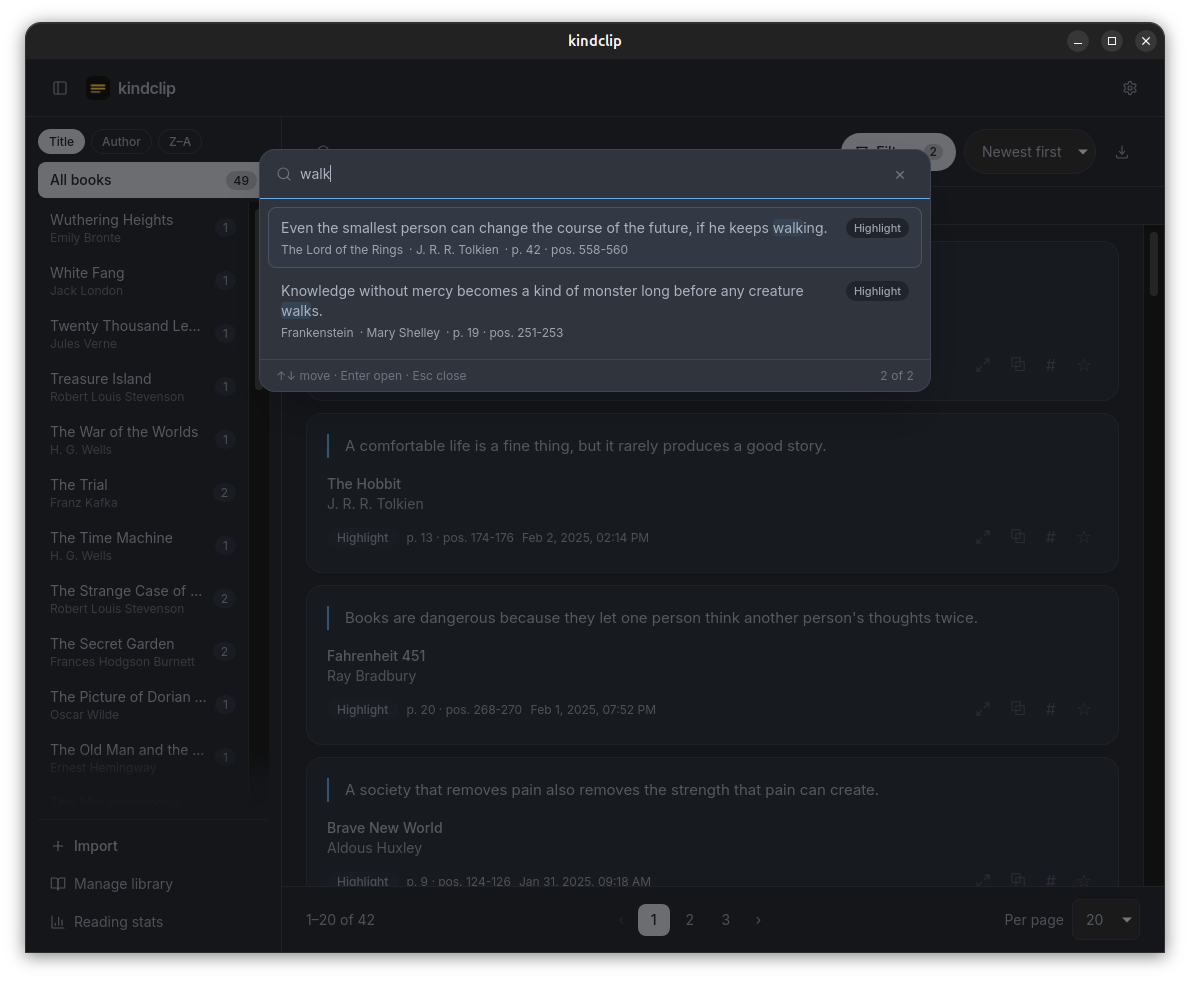
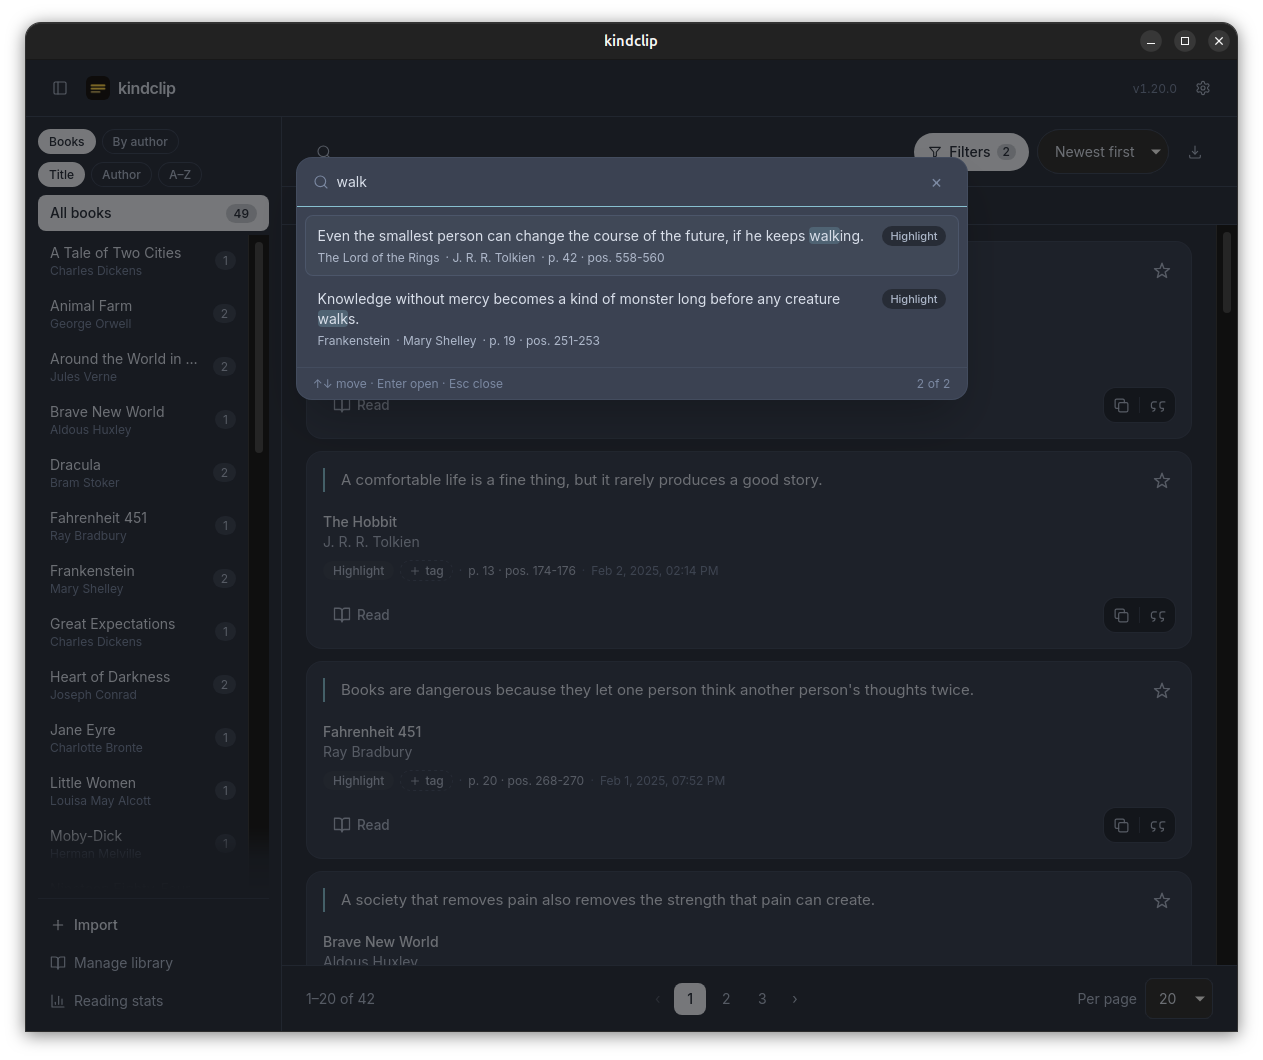
docs: refresh screenshots for the card redesign
Regenerated screen_1 and screen_2 with the new action bar and updated the intrinsic size of both images on the landing page (1263x1060).

diff --git a/docs/index.html b/docs/index.html
@@ -1449,8 +1449,8 @@
           <figure class="hero-shot">
             <img
               src="screen_1.png"
-              width="1190"
-              height="981"
+              width="1263"
+              height="1060"
               alt="kindclip library view in the Atom One Dark palette: a book sidebar with clipping counts, removable filter chips, and clipping cards showing quotes, titles, pages and dates."
             />
             <figcaption>
@@ -1772,8 +1772,8 @@
           <figure class="shot-card">
             <img
               src="screen_2.png"
-              width="1190"
-              height="981"
+              width="1263"
+              height="1060"
               loading="lazy"
               alt="The global search palette over the library, listing two matching clippings from different books with their match counts."
             />
